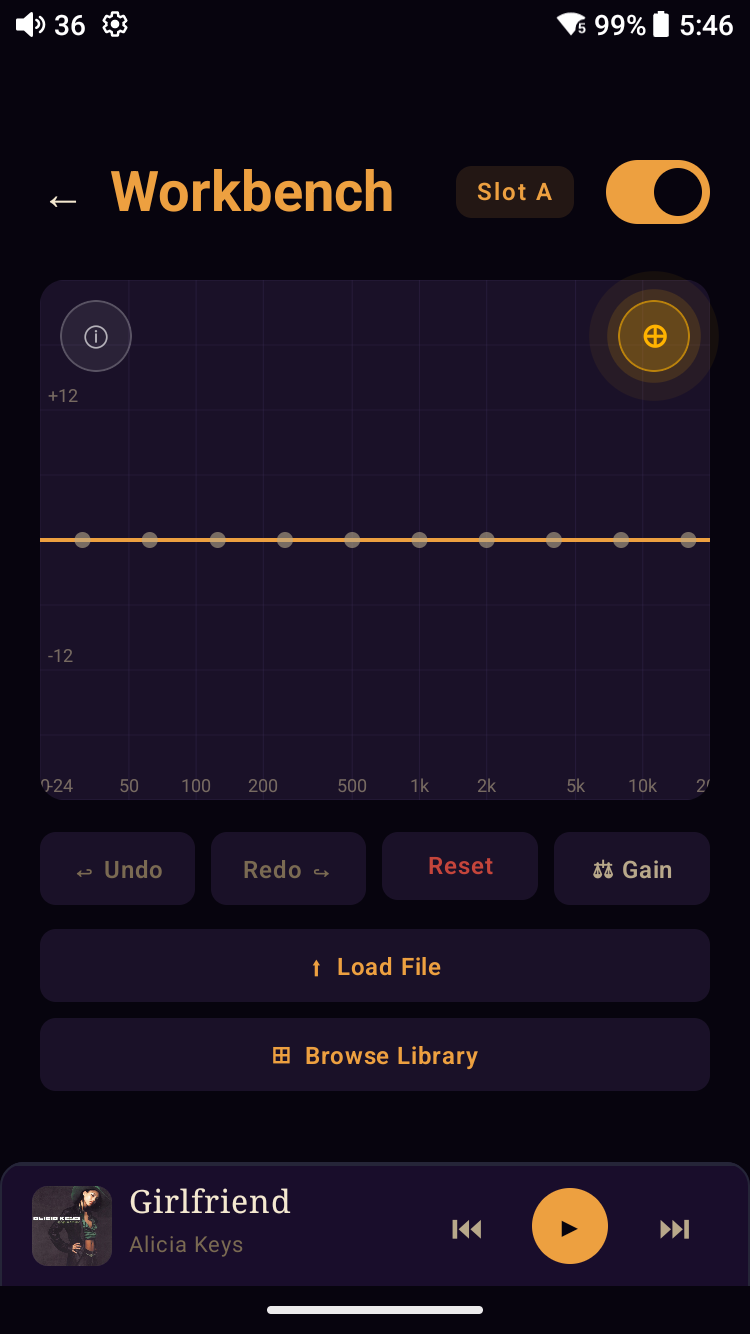
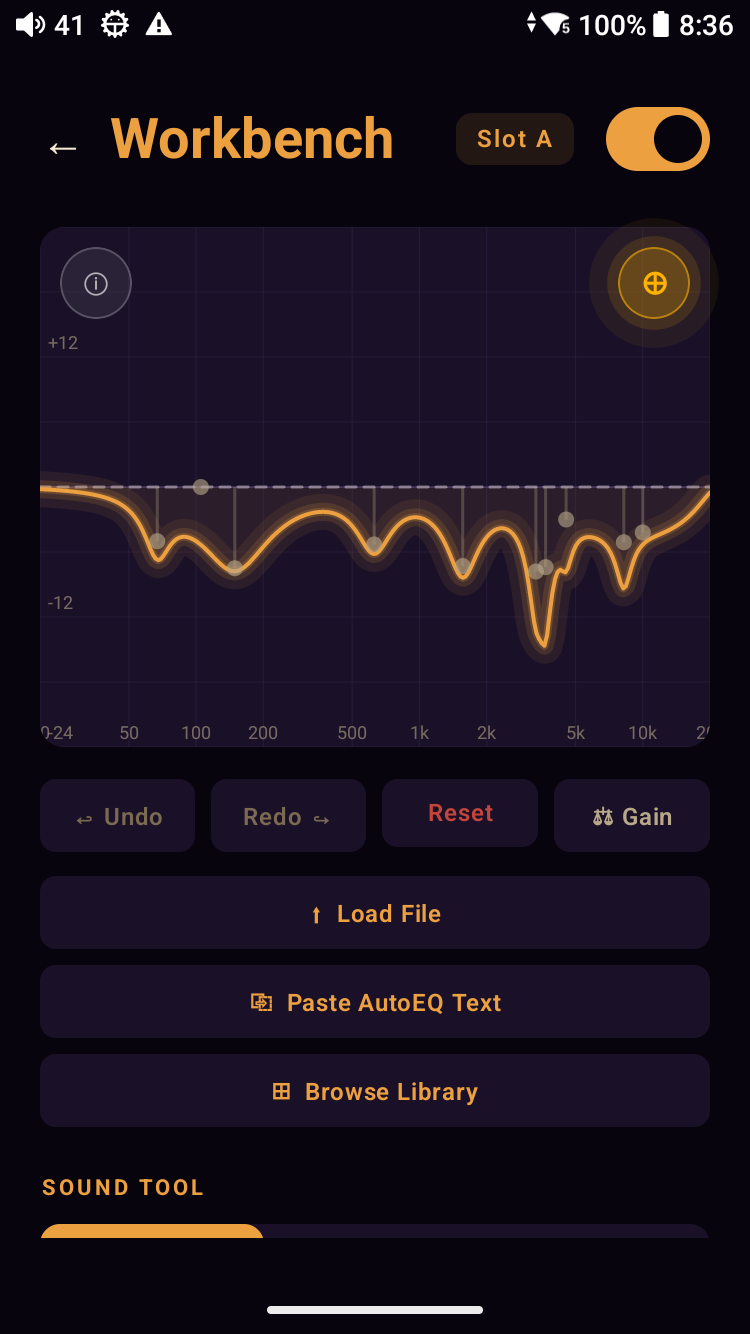
site: Atmospheres chapter, Workbench detail visual, screenshot refresh
Three structural additions plus a screenshot refresh from the M21:

- New Ch. 07 Atmospheres — promotes Coffee-Logic from a sub-paragraph
  inside Ch. 05 (Acoustic DNA) to a dedicated chapter with its own title,
  body, and pull quote. Ch. 05 trimmed accordingly, with an inline link
  pointing readers to the new chapter. Mood × Tempo cross-filter,
  determinism, and local-only posture all made explicit. Backed by a
  fresh atmospheres.png screenshot showing the actual Atmospheres view
  with live track + album counts (Lite Roast 1316 / 172, Fruity 637 / 214).

- Ch. 03 Workbench expanded — added a third paragraph specifically about
  Pink Noise + Sine Sweep routed through the active EQ bands, and the
  Min Phase / Linear Phase toggle. Visual now stacks a hero shot (active
  EQ curve, Slot A engaged) above a smaller detail shot showing the
  Sound Tool selector with Pink Noise actively selected. Alt text on
  both rewritten to describe what's actually on screen.

- Mobile menu fix — Sonic Match (#chapter-6) was missing from the
  mobile menu while present in the footer. Added it, plus the new
  Atmospheres entry. Footer nav extended to match.

- New screenshot assets stocked for future use: onboarding.png,
  home.png, diagnostics.png — none wired into the page yet but
  available for later chapters or sidebar use.

Excluded from this commit: library_albums.png shows as modified in
the working tree but wasn't part of this session's work.

diff --git a/index.html b/index.html
@@ -1593,6 +1593,8 @@ footer {
   <a href="#chapter-3">The Workbench</a>
   <a href="#chapter-4">The Tuning Vault</a>
   <a href="#chapter-5">Acoustic DNA</a>
+  <a href="#chapter-6">Sonic Match</a>
+  <a href="#chapter-7">Atmospheres</a>
   <a href="#faq">FAQ</a>
   <a href="#get-app">Get Meringo</a>
   <a href="#privacy">Privacy</a>
@@ -1890,11 +1892,15 @@ footer {
       <p class="chapter-body">
         Undo, redo, reset, gain trim, file load, library browse. Nothing buried in a menu. Nothing assumed about what your ears want. Every adjustment runs through the same 64-bit double-precision DSP path as the rest of the engine.
       </p>
+      <p class="chapter-body">
+        Below the graph: <strong>Pink Noise</strong> and <strong>Sine Sweep</strong> test signals routed through the active EQ bands. Adjust a slider, hear the test tone reshape in real time — the same headphone-calibration workflow Pro Tools and iZotope expose in studio plugins, one tap deep. <strong>Phase Mode</strong> toggles between minimum-phase (zero latency) and 1025-tap linear-phase FIR (constant group delay across frequency) without rebuilding your tuning.
+      </p>
       <div class="chapter-specs">
         <span class="chapter-spec-tag gold">10 bands</span>
         <span class="chapter-spec-tag">Slot A / Slot B</span>
         <span class="chapter-spec-tag teal">Pink Noise</span>
         <span class="chapter-spec-tag teal">Sine Sweep</span>
+        <span class="chapter-spec-tag">Min / Linear Phase</span>
         <span class="chapter-spec-tag">Calibrated dB</span>
         <span class="chapter-spec-tag">Undo / Redo</span>
       </div>
@@ -1902,9 +1908,15 @@ footer {
 
     <div class="chapter-stage">
       <div class="chapter-stage-glow"></div>
-      <div class="chapter-device">
-        <img src="assets/screens/workbench.png"
-             alt="Meringo Workbench — 10-band parametric EQ at flat response, Slot A active, with Pink Noise and Sine Sweep test tones">
+      <div style="display:flex; flex-direction:column; align-items:center; gap:24px; z-index:2;">
+        <div class="chapter-device">
+          <img src="assets/screens/workbench.png"
+               alt="Meringo Workbench — 10-band parametric EQ with an active curve (gentle bass shape, 4 kHz cut, gentle top-end roll-off), Slot A engaged, engine on">
+        </div>
+        <div class="chapter-device" style="width:240px;">
+          <img src="assets/screens/workbench_soundtools.png"
+               alt="Meringo Workbench scrolled to the Sound Tool selector — Pink Noise is the active tool, routed through the EQ bands. Helper line reads &lsquo;Pink noise through active EQ bands. Tune until perceived response is flat.&rsquo; Phase Mode toggle below shows Min Phase selected">
+        </div>
       </div>
     </div>
 
@@ -1961,17 +1973,12 @@ footer {
         AcoustID fingerprinting scans your library and matches it against <strong>MusicBrainz</strong> — surfacing release year, genre classifications, editorial biography, and high-res artwork from the <strong>Cover Art Archive</strong>. Tag-poor files become tag-rich in the background. Cross-source recordings collapse to a single library entry by Recording MBID — JAY-Z and Jay-Z and Shawn Carter all merge to one artist card once MusicBrainz resolves the canonical identity.
       </p>
       <p class="chapter-body">
-        The payoff lands on the home screen as <strong>Mood</strong> and <strong>Smart Playlists</strong> generated from the metadata you didn't have to type. Lite Roast. Fruity. Hi-Res Vault. Deep Cuts. <em>Long plays.</em> Curation, without a curator.
-      </p>
-      <p class="chapter-body">
-        And one layer deeper, the <strong>Atmospheres</strong> browse mode lets you walk the entire library by Coffee-Logic mood — Lite Roast (bright, acoustic clarity), Fruity (complex harmonics), Medium Roast (balanced indie/electronic), Dark &amp; Bold (heavy low-end), Slow Drip (ambient/long-form) — and cross-filter by tempo (Slow / Mid / Fast, measured directly from the audio by onset autocorrelation). Five tiles, each lens-scoped, each surfaced from the same fingerprint pass.
+        The payoff lands on the home screen as <strong>Smart Playlists</strong> generated from the metadata you didn't have to type. Hi-Res Vault. Deep Cuts. <em>Long plays.</em> Studio Vault. Curation, without a curator — and a <a href="#chapter-7" style="color:var(--color-gold-dim);">mood-driven library navigation</a> primitive that reads from the same fingerprint pass.
       </p>
       <div class="chapter-specs">
         <span class="chapter-spec-tag gold">AcoustID</span>
         <span class="chapter-spec-tag">MusicBrainz</span>
         <span class="chapter-spec-tag">Cover Art Archive</span>
-        <span class="chapter-spec-tag teal">Atmospheres</span>
-        <span class="chapter-spec-tag teal">Mood × Tempo</span>
         <span class="chapter-spec-tag">Smart Playlists</span>
       </div>
     </div>
@@ -2028,6 +2035,48 @@ footer {
   </div>
 </section>
 
+
+
+<!-- ═════════════════════════════════════════════════════════════
+     CHAPTER 7 — ATMOSPHERES (Coffee-Logic mood navigation)
+═════════════════════════════════════════════════════════════ -->
+<section class="chapter" id="chapter-7">
+  <div class="chapter-grid">
+
+    <div class="chapter-copy">
+      <p class="chapter-num">Ch. 07 — Atmospheres</p>
+      <h2 class="chapter-title">Browse by <em>sound,</em> not by genre tag.</h2>
+      <p class="chapter-body">
+        <strong>Coffee-Logic</strong> classifies every track in your library by its actual audio character, not by metadata. Five mood classes — <strong>Lite Roast</strong> (bright, acoustic clarity), <strong>Fruity</strong> (complex harmonics — jazz, soul, bossa), <strong>Medium Roast</strong> (balanced indie/electronic), <strong>Dark &amp; Bold</strong> (heavy low-end, aggressive transients), <strong>Slow Drip</strong> (atmospheric, long-form) — derived deterministically from each track's Chromaprint fingerprint, technical metadata, and MusicBrainz genre tags.
+      </p>
+      <p class="chapter-body">
+        Stack mood &times; <strong>tempo</strong> (Slow 60-100 BPM, Mid 100-140, Fast 140-200, computed by onset autocorrelation on the same PCM extraction) and the library narrows to a coherent listening session. <em>Dark &amp; Bold</em> &times; Slow for a 2am session. <em>Lite Roast</em> &times; Mid for a morning walk. Each tile lens-scoped, each surfaced from the same fingerprint pass that powers Sonic Match.
+      </p>
+      <p class="chapter-body">
+        Same file always produces the same tag. No recommendation lottery, no telemetry, no third-party classifier in the loop. The library knows what it sounds like because Meringo listened to it once, on your phone.
+      </p>
+      <blockquote class="chapter-pull">
+        Mood navigation that reads the <em>audio,</em><br>not the tags.
+      </blockquote>
+      <div class="chapter-specs">
+        <span class="chapter-spec-tag gold">5 mood classes</span>
+        <span class="chapter-spec-tag teal">Tempo cross-filter</span>
+        <span class="chapter-spec-tag">Chromaprint</span>
+        <span class="chapter-spec-tag">Deterministic</span>
+        <span class="chapter-spec-tag">Local-only</span>
+      </div>
+    </div>
+
+    <div class="chapter-stage">
+      <div class="chapter-stage-glow"></div>
+      <div class="chapter-device">
+        <img src="assets/screens/atmospheres.png"
+             alt="Meringo Library — Vault lens, Atmospheres view-type selected. The mood tiles show live counts derived locally from each track&rsquo;s audio fingerprint: Lite Roast (1316 tracks, 172 albums), Fruity (637 tracks, 214 albums), Dark &amp; Bold (rock / metal / hip-hop / funk) partially visible below">
+      </div>
+    </div>
+
+  </div>
+</section>
 
 
 <!-- ═════════════════════════════════════════════════════════════
@@ -2645,6 +2694,7 @@ footer {
       <a href="#chapter-4">The Tuning Vault</a>
       <a href="#chapter-5">Acoustic DNA</a>
       <a href="#chapter-6">Sonic Match</a>
+      <a href="#chapter-7">Atmospheres</a>
     </div>
 
     <div class="footer-links">